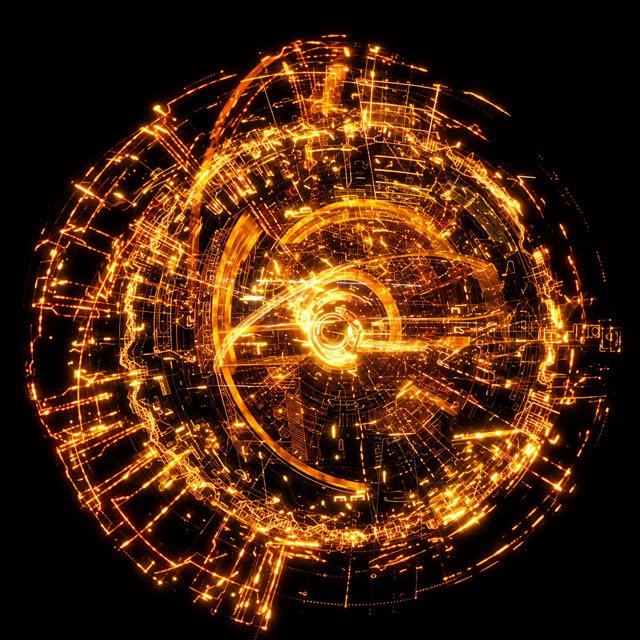
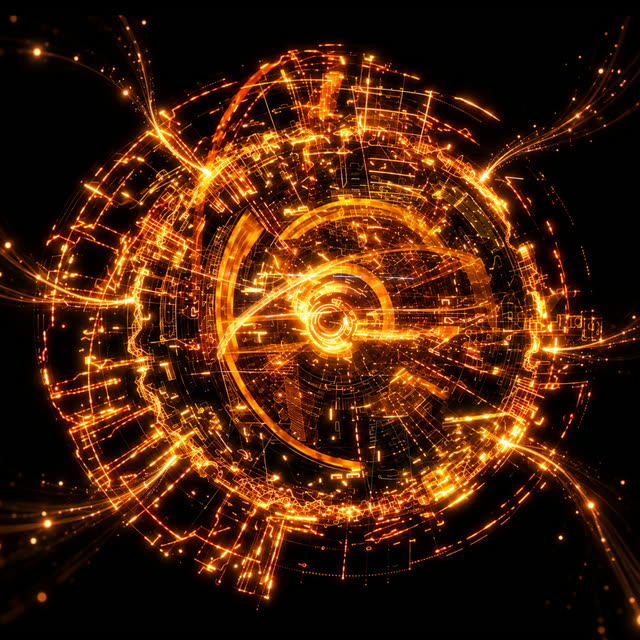
Energy streams curl in and the orb swallows them
New orb artwork from the user. Seven bundles of glowing threads curl in from
the screen edges, wide far away and pinched at the orb; streaks of light run
along them, speed up as they near it, flash on the rim and brighten the core.
Scrolling feeds it faster.

diff --git a/laylatul-code/assets/app.js b/laylatul-code/assets/app.js
@@ -728,7 +728,7 @@ orbImg.decode().then(() => {
   }
   sg.putImageData(im, 0, 0);
   // each band keeps the image where its mask is 1; neighbouring bands cross-fade so, unrotated, they add back up to the original
-  const bands = [[[0, 1], [0.3, 1], [0.38, 0]], [[0.3, 0], [0.38, 1], [0.6, 1], [0.68, 0]], [[0.6, 0], [0.68, 1], [0.94, 1], [1, 0]]];
+  const bands = [[[0, 1], [0.3, 1], [0.38, 0]], [[0.3, 0], [0.38, 1], [0.6, 1], [0.68, 0]], [[0.6, 0], [0.68, 1], [0.88, 1], [0.97, 0]]];
   orb.layers = bands.map(stops => {
     const cv = document.createElement('canvas'); cv.width = cv.height = N;
     const g = cv.getContext('2d');
@@ -740,6 +740,92 @@ orbImg.decode().then(() => {
     return cv;
   });
 }).catch(() => {});   // if the image fails, the drawn hologram below stays
+
+/* energy streams: bundles of glowing threads curl in from the screen's edges, and the orb swallows the light running along them */
+const feed = { lanes: [], n: LITE ? 170 : 360, glow: 0, flashes: [] };
+(() => {
+  const r = rng(77);
+  const dirs = [-2.45, -0.7, 0.1, 0.8, 2.25, 3.05, -1.6];   // where each bundle comes from, around the orb
+  feed.lanes = dirs.map((a, i) => ({ a: a + (r() - 0.5) * 0.2, swirl: 0.8 + r() * 0.5, spread: 0.2 + r() * 0.12, len: 0.9 + r() * 0.3, ph: i * 1.3,
+    strands: Array.from({ length: LITE ? 5 : 10 }, () => ({ off: (r() - 0.5) * 2, ph: r() * TAU })) }));
+  const n = feed.n;
+  feed.lane = new Uint8Array(n); feed.u = new Float32Array(n); feed.off = new Float32Array(n); feed.sp = new Float32Array(n); feed.s = new Float32Array(n);
+  for (let i = 0; i < n; i++) { feed.lane[i] = (r() * dirs.length) | 0; feed.u[i] = r(); feed.off[i] = (r() - 0.5) * 2; feed.sp[i] = 0.6 + r() * 0.8; feed.s[i] = 0.7 + r() * 1.1; }
+})();
+// a point on a bundle: u runs 0 (far off screen) to 1 (inside the orb's rim); the bundle is wide far away and pinches in at the orb
+const LP = [0, 0];
+function lanePt(L, u, off, x, y, R, D, t) {
+  const v = 1 - u, rho = R * 0.9 + (D * L.len - R * 0.9) * v;
+  const ang = L.a - L.swirl * v * v + off * L.spread * Math.pow(v, 1.3) + Math.sin(t * 0.6 + L.ph + v * 4) * 0.05 * v;
+  LP[0] = x + Math.cos(ang) * rho; LP[1] = y + Math.sin(ang) * rho;
+  return LP;
+}
+function stepFeed(dt, k) {
+  const boost = 1 + Math.min(3, Math.abs(orb.svs || 0) * 4);   // scrolling feeds it faster
+  for (let i = 0; i < feed.n; i++) {
+    const u = feed.u[i];
+    feed.u[i] = u + feed.sp[i] * (0.1 + 0.75 * u * u) * boost * dt / 1000;   // pulled in harder as it gets close
+    if (feed.u[i] >= 1) {   // swallowed: a flick of light on the rim, and the core brightens
+      if (orb.R > 20 && feed.flashes.length < 30 && Math.random() < 0.35) feed.flashes.push({ a: feed.lanes[feed.lane[i]].a, life: 1 });
+      feed.glow = Math.min(1, feed.glow + 0.012);
+      feed.u[i] = Math.random() * 0.12; feed.off[i] = (Math.random() - 0.5) * 2;
+    }
+  }
+  feed.glow *= Math.pow(0.93, k);
+  for (const f of feed.flashes) f.life -= 0.06 * k;
+  feed.flashes = feed.flashes.filter(f => f.life > 0);
+}
+function drawFeed(c, x, y, R, t) {
+  const A = clamp((R - 8) / 80, 0, 1); if (A <= 0) return;
+  const D = Math.hypot(orb.W, orb.H) * 0.62, lw = Math.max(0.7, R / 260);
+  c.globalCompositeOperation = 'lighter'; c.lineCap = 'round';
+  // the threads themselves: faint far away, bright where they plunge into the orb
+  const seg = [new Path2D(), new Path2D(), new Path2D()], cuts = [0, 0.45, 0.78, 1], STEP = LITE ? 14 : 22;
+  for (const L of feed.lanes) for (const s of L.strands) {
+    const off = s.off + Math.sin(t * 0.5 + s.ph) * 0.12;
+    for (let q = 0; q < 3; q++) {
+      const n = Math.max(2, Math.round(STEP * (cuts[q + 1] - cuts[q])));
+      for (let j = 0; j <= n; j++) {
+        const p = lanePt(L, cuts[q] + (cuts[q + 1] - cuts[q]) * j / n, off, x, y, R, D, t);
+        j ? seg[q].lineTo(p[0], p[1]) : seg[q].moveTo(p[0], p[1]);
+      }
+    }
+  }
+  c.strokeStyle = '#ff9a2e';
+  c.globalAlpha = 0.09 * A; c.lineWidth = lw; c.stroke(seg[0]);
+  c.globalAlpha = 0.18 * A; c.stroke(seg[1]);
+  c.globalAlpha = 0.07 * A; c.lineWidth = lw * 5; c.stroke(seg[2]);
+  c.strokeStyle = '#ffc061'; c.globalAlpha = 0.3 * A; c.lineWidth = lw * 1.2; c.stroke(seg[2]);
+  // the energy running along them: streaks that stretch as they speed up, with a hot head
+  const bk = [new Path2D(), new Path2D(), new Path2D()], heads = [];
+  for (let i = 0; i < feed.n; i++) {
+    const u = feed.u[i], L = feed.lanes[feed.lane[i]], tl = 0.025 + 0.06 * u * u;
+    if (u < tl) continue;
+    const a = lanePt(L, u - tl, feed.off[i], x, y, R, D, t), ax = a[0], ay = a[1];
+    const b = lanePt(L, u, feed.off[i], x, y, R, D, t);
+    const q = u < 0.45 ? 0 : u < 0.8 ? 1 : 2;
+    bk[q].moveTo(ax, ay); bk[q].lineTo(b[0], b[1]);
+    if (u > 0.3) heads.push(b[0], b[1], feed.s[i] * lw * (0.8 + u), u);
+  }
+  c.strokeStyle = '#ffb347';
+  c.globalAlpha = 0.35 * A; c.lineWidth = lw * 1.1; c.stroke(bk[0]);
+  c.globalAlpha = 0.6 * A; c.lineWidth = lw * 1.4; c.stroke(bk[1]);
+  c.strokeStyle = '#ffd27a'; c.globalAlpha = 0.9 * A; c.lineWidth = lw * 1.8; c.stroke(bk[2]);
+  c.fillStyle = '#fff1c8';
+  for (let i = 0; i < heads.length; i += 4) {
+    const z = heads[i + 2] * 1.6;
+    c.globalAlpha = A * Math.min(1, heads[i + 3]); c.fillRect(heads[i] - z / 2, heads[i + 1] - z / 2, z, z);
+  }
+}
+function drawFeedFlashes(c, x, y, R) {
+  c.globalCompositeOperation = 'lighter';
+  for (const f of feed.flashes) {
+    const px = x + Math.cos(f.a) * R * 0.9, py = y + Math.sin(f.a) * R * 0.9, s = R * 0.09 * (1.3 - f.life * 0.5);
+    const g = c.createRadialGradient(px, py, 0, px, py, s);
+    g.addColorStop(0, 'rgba(255,240,200,0.9)'); g.addColorStop(0.35, 'rgba(255,180,70,0.45)'); g.addColorStop(1, 'rgba(255,140,30,0)');
+    c.globalAlpha = f.life; c.fillStyle = g; c.fillRect(px - s, py - s, s * 2, s * 2);
+  }
+}
 
 function drawOrbArt(c, x, y, R, t, ex) {
   const r = R * 1.08 * (1 + 0.018 * Math.sin(t * 1.9) + 0.04 * ex);   // gentle breathing
@@ -761,9 +847,10 @@ function drawOrbArt(c, x, y, R, t, ex) {
   });
   // the core pulses
   const pulse = 0.5 + 0.5 * Math.sin(t * 2.6);
-  g = c.createRadialGradient(x, y, 0, x, y, r * 0.22);
-  g.addColorStop(0, `rgba(255,240,190,${0.35 + 0.35 * pulse})`); g.addColorStop(0.5, `rgba(255,170,60,${0.15 + 0.15 * pulse})`); g.addColorStop(1, 'rgba(255,140,30,0)');
-  c.globalAlpha = 1; c.fillStyle = g; c.beginPath(); c.arc(x, y, r * 0.22, 0, TAU); c.fill();
+  g = c.createRadialGradient(x, y, 0, x, y, r * (0.22 + 0.08 * feed.glow));
+  const fed = feed.glow;
+  g.addColorStop(0, `rgba(255,240,190,${Math.min(1, 0.3 + 0.3 * pulse + 0.5 * fed)})`); g.addColorStop(0.5, `rgba(255,170,60,${0.12 + 0.12 * pulse + 0.25 * fed})`); g.addColorStop(1, 'rgba(255,140,30,0)');
+  c.globalAlpha = 1; c.fillStyle = g; c.beginPath(); c.arc(x, y, r * 0.3, 0, TAU); c.fill();
 }
 
 function drawOrb(c, x, y, R, t, ex, big) {
@@ -891,7 +978,7 @@ function renderOrb(t) {
       oc.globalAlpha = a * 0.5 * Math.min(1, sp / 12); oc.fillRect(px - s / 2, py - s / 2, s, s);
     });
   }
-  if (R > 1.5) drawOrb(oc, x, y, R, t, orb.excite, orb.big);
+  if (R > 1.5) { drawFeed(oc, x, y, R, t); drawOrb(oc, x, y, R, t, orb.excite, orb.big); drawFeedFlashes(oc, x, y, R); }
   // sparks shed by the flares, falling as you scroll down
   oc.strokeStyle = '#ffb04a'; oc.lineCap = 'round';
   for (const s of orb.sparks) {
@@ -941,6 +1028,7 @@ function stepOrb(now) {
   }
   for (const s of orb.sparks) { s.x += s.vx * k; s.y += s.vy * k; s.vy += 0.09 * k; s.vx *= Math.pow(0.99, k); s.life -= 0.022 * k; }
   orb.sparks = orb.sparks.filter(s => s.life > 0 && s.y < orb.H + 20);
+  if (orb.R > 6) stepFeed(dt, k);
   if (now - (orb.lastDraw || 0) >= 32) { renderOrb(t); orb.lastDraw = now; }   // 30 redraws a second is plenty for a hologram
   if (!document.hidden && !RM.matches) orb.raf = requestAnimationFrame(stepOrb);
 }
